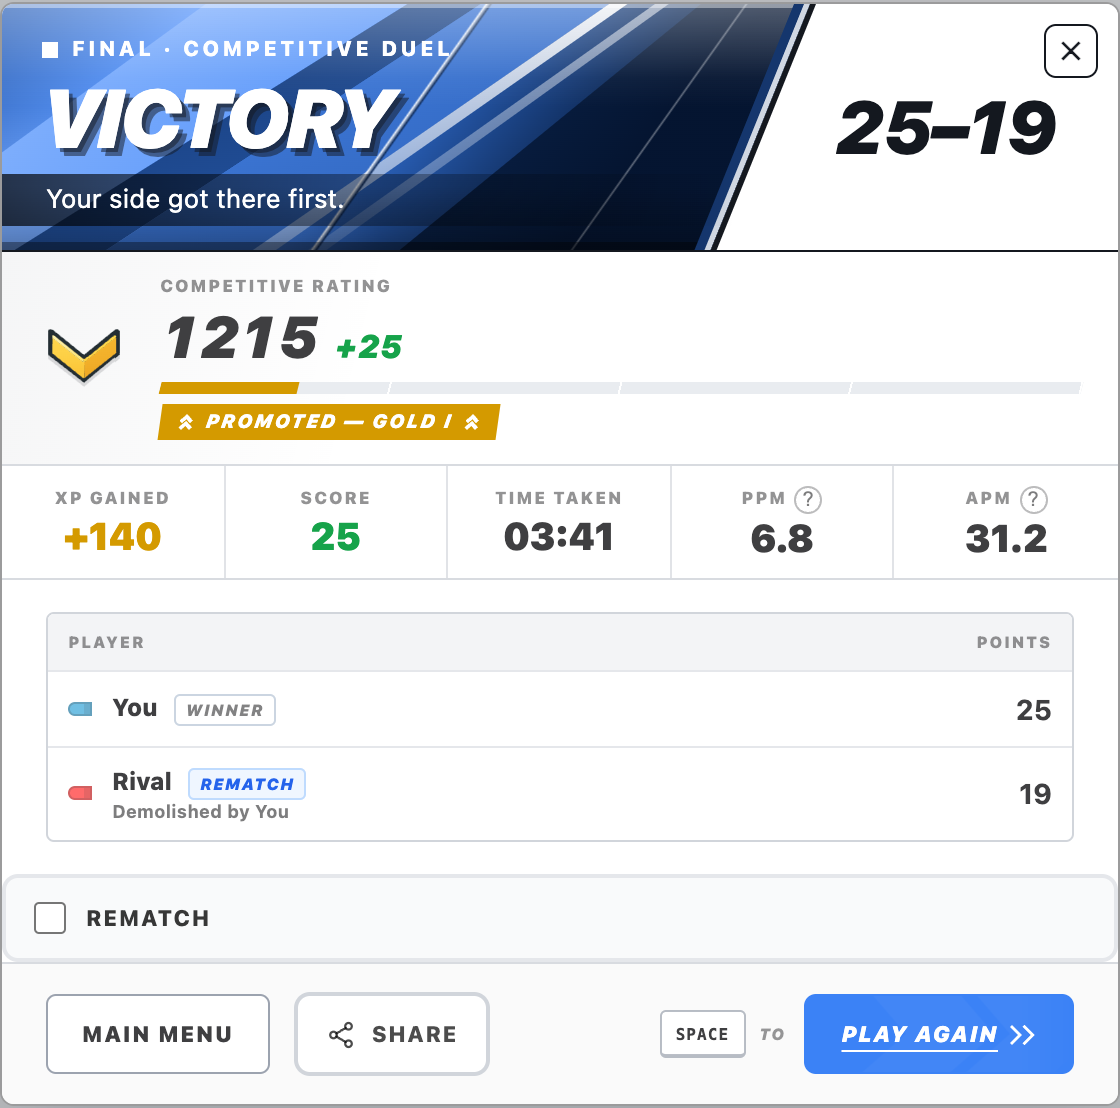
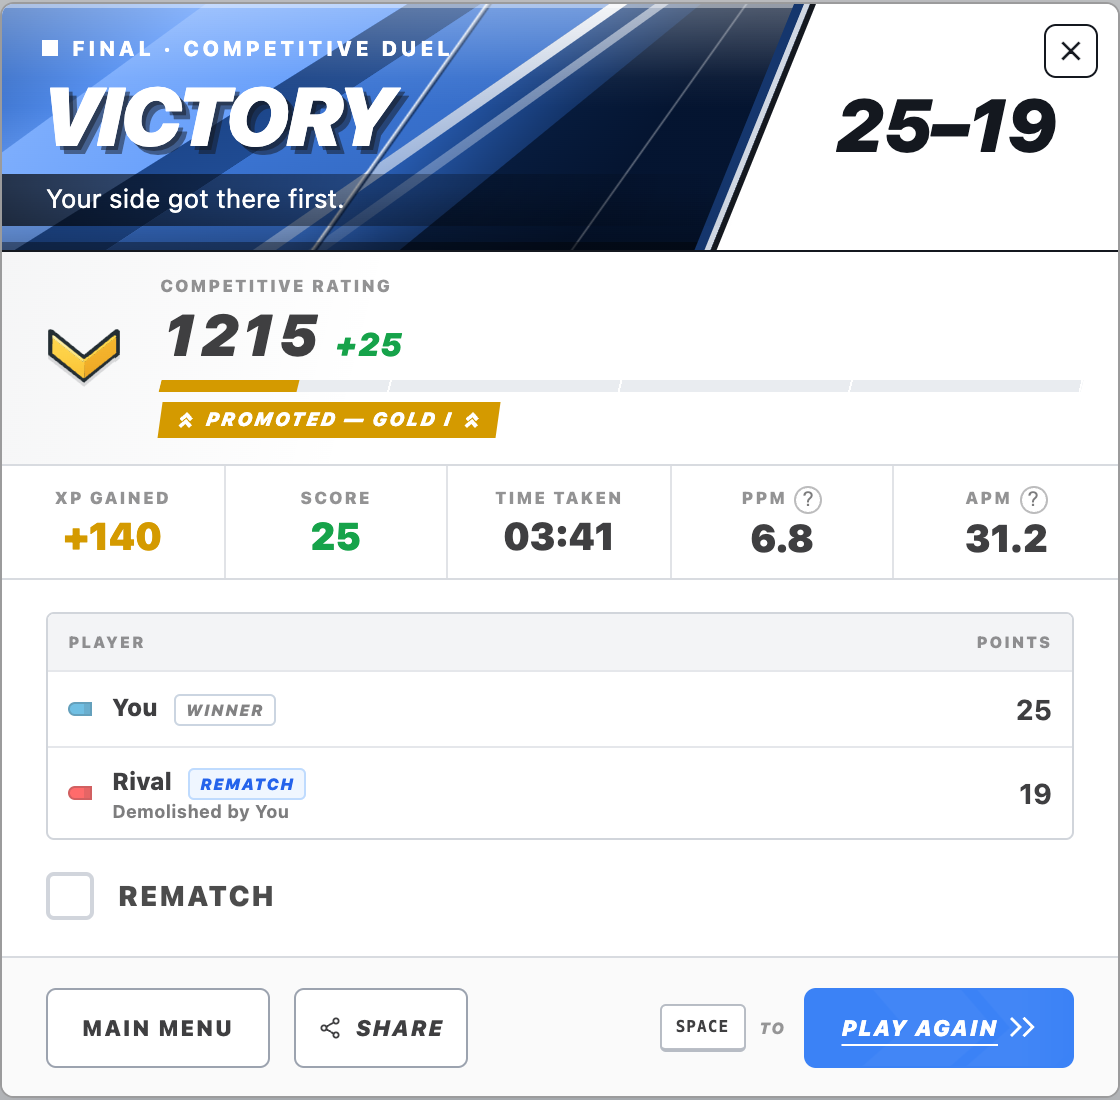
Give the rematch checkbox and the share button the card's own vocabulary
The checkbox had a bordered, filled container of its own, which made a single
choice read as a section. It is now the same bare control the home form's
Competitive checkbox uses — hidden native input, drawn box, uppercase label —
aligned to the 22px inset the standings above it already sit on.

Main menu and Share were both secondary buttons on the same row wearing
different clothes: 1px/5px/9px italic against 2px/8px/11px upright. Share now
takes the button class from its call site, so the results footer and the HUD
rail both get `game-shell-button` and the standalone match page — which has no
such vocabulary, only its own blue CTA — keeps the larger form that matches it.

diff --git a/client/web/components/GameOverCard.tsx b/client/web/components/GameOverCard.tsx
@@ -398,14 +398,45 @@ const GameOverCard: React.FC<GameOverCardProps> = ({
         </div>
 
         {rematch && onRematchToggle && canRematch(rematch, currentUserId) && (
-          <label className="game-over-rematch" data-testid="rematch-toggle">
-            <input
-              type="checkbox"
-              checked={hasOptedIntoRematch(rematch, currentUserId)}
-              onChange={(event) => onRematchToggle(event.target.checked)}
-              data-testid="rematch-checkbox"
-            />
-            <span className="game-over-rematch-label">Rematch</span>
+          <div className="game-over-rematch" data-testid="rematch-toggle">
+            {/* Same control as the Competitive checkbox on the home form: a
+                bare label, the native input hidden for semantics, and a drawn
+                box. Copied rather than shared because the two are the only
+                checkboxes in the app and a component for two call sites would
+                be the wrong abstraction to reach for first. */}
+            <label className="flex items-center gap-3 cursor-pointer group">
+              <div className="relative">
+                <input
+                  type="checkbox"
+                  checked={hasOptedIntoRematch(rematch, currentUserId)}
+                  onChange={(event) => onRematchToggle(event.target.checked)}
+                  className="sr-only"
+                  data-testid="rematch-checkbox"
+                />
+                <div
+                  className={`w-6 h-6 border-2 rounded transition-all group-hover:border-gray-400 ${
+                    hasOptedIntoRematch(rematch, currentUserId)
+                      ? 'bg-blue-500 border-blue-500'
+                      : 'bg-white border-gray-300'
+                  }`}
+                >
+                  {hasOptedIntoRematch(rematch, currentUserId) && (
+                    <svg
+                      className="w-full h-full text-white"
+                      fill="none"
+                      viewBox="0 0 24 24"
+                      stroke="currentColor"
+                      strokeWidth={3}
+                    >
+                      <path strokeLinecap="round" strokeLinejoin="round" d="M5 13l4 4L19 7" />
+                    </svg>
+                  )}
+                </div>
+              </div>
+              <span className="text-sm font-black uppercase tracking-1 text-black-70 select-none">
+                Rematch
+              </span>
+            </label>
             {/* Only ever shown when ticking the box cannot actually produce a
                 game; silence there would read as the feature being broken. */}
             {rematchBlockReason(rematch) && (
@@ -413,14 +444,18 @@ const GameOverCard: React.FC<GameOverCardProps> = ({
                 {rematchBlockReason(rematch)}
               </span>
             )}
-          </label>
+          </div>
         )}
 
         <footer className="game-over-actions">
           <button type="button" onClick={onMenu} className="game-shell-button is-menu">
             Main menu
           </button>
-          <ShareGame gameId={shareGameId} headline={presentation.resultSummary} />
+          <ShareGame
+            gameId={shareGameId}
+            headline={presentation.resultSummary}
+            triggerClassName="game-shell-button"
+          />
           <div className="game-over-replay-actions">
             {inputSurface !== 'touch' && (
               <span className="game-over-shortcut" aria-hidden="true">

diff --git a/client/web/index.css b/client/web/index.css
@@ -7008,34 +7008,15 @@ a.home-social-icon:hover {
    is anyone else still here, and has anyone else said yes. Sits between the
    standings and the action footer, so it reads as part of the result rather
    than as another button. */
-/* One checkbox under the standings. Everything it used to explain now lives
-   on the rows themselves as pills. */
+/* One checkbox under the standings, with no container of its own — the
+   control is the same bare label the home form's Competitive checkbox uses,
+   and boxing it here would make it read as a section rather than a choice. */
 .game-over-rematch {
   display: flex;
   align-items: center;
-  gap: 10px;
-  margin: 14px 0 0;
-  padding: 12px 14px;
-  border: 2px solid #e5e7eb;
-  border-radius: 8px;
-  background: #f9fafb;
-  cursor: pointer;
-}
-
-.game-over-rematch input {
-  width: 16px;
-  height: 16px;
-  flex: none;
-  accent-color: var(--game-blue);
-  cursor: pointer;
-}
-
-.game-over-rematch-label {
-  color: rgb(0 0 0 / 78%);
-  font-size: 11px;
-  font-weight: 800;
-  letter-spacing: 0.8px;
-  text-transform: uppercase;
+  gap: 14px;
+  /* Aligned with the standings block above it — 22px is the card's inset. */
+  margin: 0 22px 18px;
 }
 
 .game-over-rematch-blocked {
@@ -7046,3 +7027,22 @@ a.home-social-icon:hover {
   text-align: right;
 }
 
+
+/* Share adopting the shell button: the icon has to come down to the 9px type
+   it now sits beside, and the icon-only form in the HUD rail needs a square
+   footprint rather than the label padding. */
+.game-shell-button .share-game-icon {
+  width: 12px;
+  height: 12px;
+}
+
+/* The shell button centres its content with no gap of its own, which runs the
+   icon straight into the word. */
+.game-shell-button:has(.share-game-icon) {
+  gap: 7px;
+}
+
+.game-shell-button.is-share-icon {
+  width: 32px;
+  padding: 0;
+}

diff --git a/client/web/components/ShareGame.tsx b/client/web/components/ShareGame.tsx
@@ -25,6 +25,15 @@ export interface ShareGameProps {
   variant?: 'default' | 'compact';
   className?: string;
   label?: string;
+  /**
+   * Button class for surfaces that already have a button vocabulary.
+   *
+   * The results card and the HUD rail both speak `game-shell-button`, and a
+   * share control that invents its own border and radius next to a Main menu
+   * button reads as a different kind of thing. The standalone match page has
+   * no such vocabulary, so it keeps the default.
+   */
+  triggerClassName?: string;
 }
 
 type CopyState = 'idle' | 'copied' | 'failed';
@@ -40,6 +49,7 @@ export const ShareGame: React.FC<ShareGameProps> = ({
   variant = 'default',
   className = '',
   label = 'Share',
+  triggerClassName,
 }) => {
   const [isOpen, setIsOpen] = useState(false);
   const [copyState, setCopyState] = useState<CopyState>('idle');
@@ -149,7 +159,10 @@ export const ShareGame: React.FC<ShareGameProps> = ({
       <button
         ref={triggerRef}
         type="button"
-        className={`share-game-trigger${variant === 'compact' ? ' is-compact' : ''}`}
+        className={
+          triggerClassName
+            ?? `share-game-trigger${variant === 'compact' ? ' is-compact' : ''}`
+        }
         onClick={() => setIsOpen((open) => !open)}
         aria-expanded={isOpen}
         aria-haspopup="dialog"

diff --git a/client/web/components/MatchRosterBand.tsx b/client/web/components/MatchRosterBand.tsx
@@ -78,6 +78,7 @@ const MatchRosterBand: React.FC<MatchRosterBandProps> = ({
       headline={presentation.isComplete ? presentation.resultSummary : null}
       variant="compact"
       className="game-roster-share"
+      triggerClassName="game-shell-button is-share-icon"
     />
   );
 
